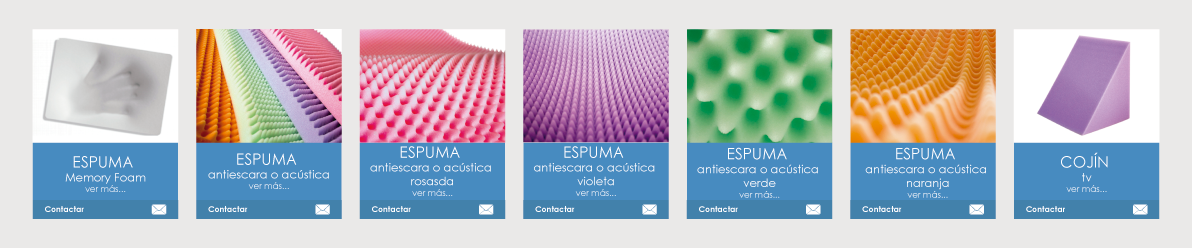
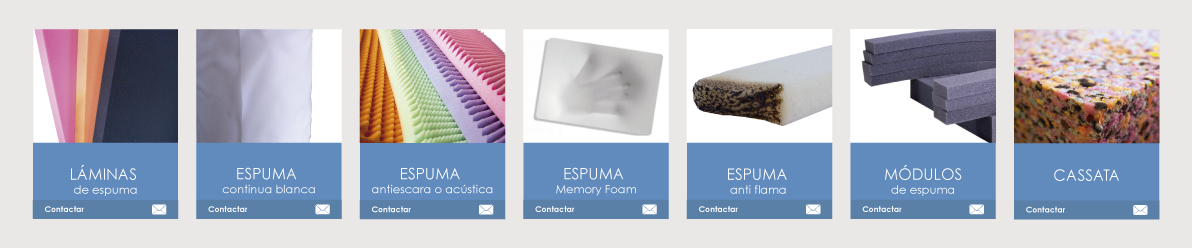
cambiando slider de productos

diff --git a/index.html b/index.html
@@ -91,10 +91,10 @@
             <div class="flexslider">
                 <ul class="slides">
                     <li>
-                        <img src="img/slider1.jpg" />
+                        <img src="img/slider1.png" />
                     </li>
                     <li>
-                        <img src="img/slider2.jpg" />
+                        <img src="img/slider2.png" />
                     </li>
 
                 </ul>
